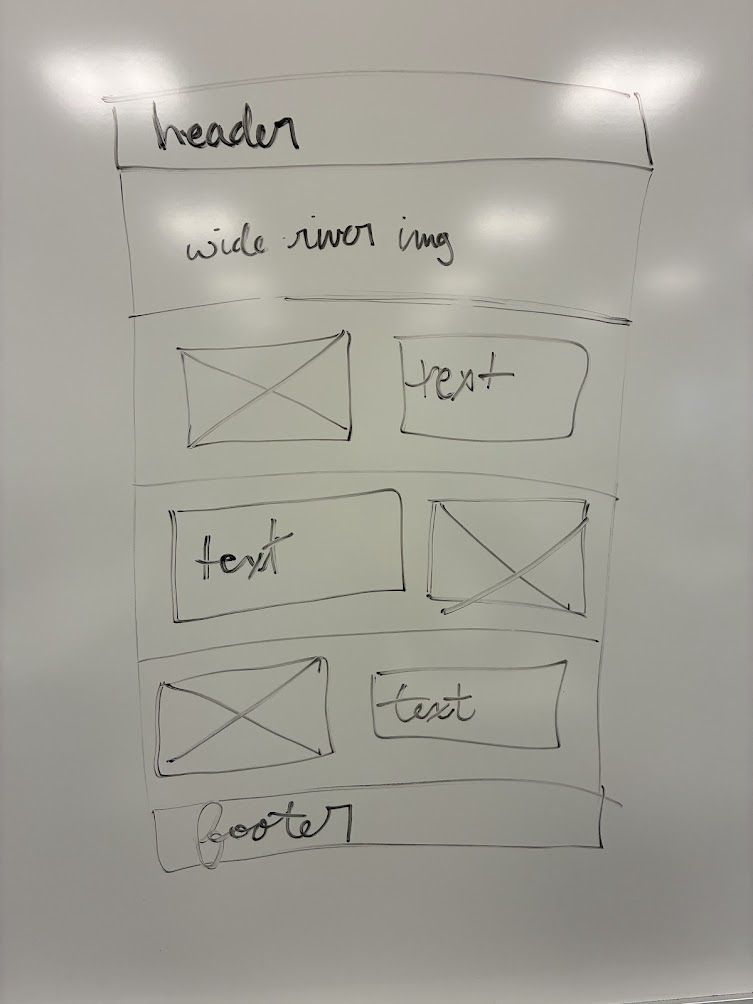
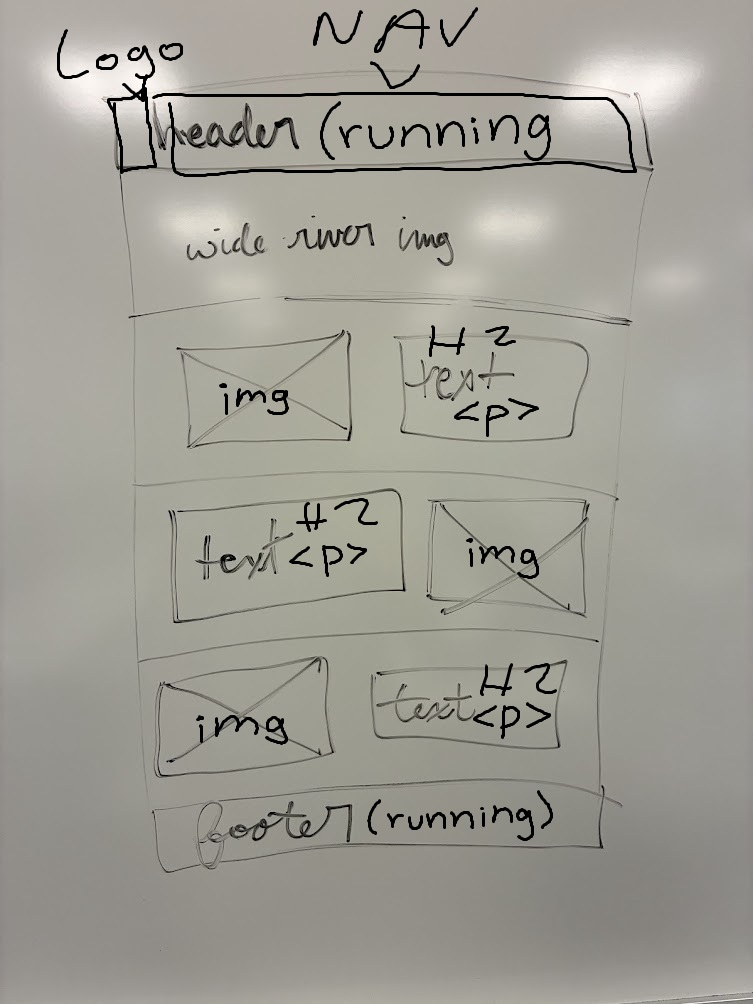
river-plan

diff --git a/wwr/rivers.html b/wwr/rivers.html
@@ -1,0 +1,42 @@
+<!DOCTYPE html>
+<html lang="en">
+<head>
+    <meta charset="UTF-8">
+    <meta name="viewport" content="width=device-width, initial-scale=1.0">
+    <title>Document</title>
+    <link rel="stylesheet" href="style.css">
+</head>
+<body>
+    <main>
+        <h3>Images:</h3>
+        <div class="img_prep">
+        <img src="images/little-colorado-portrait.jpg" alt="Little Colorado">
+        <img src="images/elves-chasm.jpg" alt="Elves Chasm">
+        <img src="images/rafting-canyon.jpg" alt="Canyon">
+        <img src="images/rafting-tall.jpg" alt="Tall">
+        <img src="images/river-wide.jpg" alt="River, Wide">
+        </div>
+        <h3>Text:</h3>
+        <div>
+            <h4>Main Fork of the Salmon River, Idaho</h4>
+            <p>Nestled deep in the Frank Church Wilderness of No Return winds the Salmon river. The Salmon was given the nickname long ago as the River of No Return by the people living near it because of the number of folks that came to visit and fell so in love with the rugged beauty of the river that they never left.
+
+Herds of elk and deer graze on the hillsides around the river and bear and bighorn sheep are also commonly sighted. The river corridor is also lined with awe inspiring ponderosa pine which tower over the sandy beaches in the campsites and provide shelter from sun or rain when needed.
+
+Let's not forget the rapids! They range from class I-IV. The Salmon is one of the longest undammed rivers in the United States. As a free flowing river the water is higher, faster, and colder in the early summer and lower, slower, and warmer in the late summer. There are good rapids all summer...but families with children who like to swim tend to appreciate the late summer's slower, warmer water more.</p>
+            <h4>Desolation and Gray Canyon, Utah</h4>    
+            <p>Winding through canyons in central Utah, in some of the most desolate land anywhere, the Green river flows towards the mighty Colorado river and the sea. High grey stone cliffs, beautiful desert scenery, and great rapids have made this run famous. This 84-mile trip runs from from Sand Wash to Swaseys Rapid (just outside Green River Utah) and boasts outstanding scenery, interesting geologic formations, evidence of prehistoric and historic human activity, and great whitewater opportunities.
+
+Desolation is rated a Class II/III and is usually done in 6 days
+
+Desolation Canyon has been recognized as a National Landmark.  This designation is based on the uniqueness and rich history that the canyon tells.</p>
+            <h4>Grand Canyon, Arizona</h4>
+            <p>This is the grand daddy of all canyons and the grand daddy of all river trips. You will never forget your visit to the Grand Canyon.
+
+Grand Canyon river rafting combines world-class whitewater with breathtaking scenery to make one truly unforgettable river experience. The canyon is filled not only with exhilarating whitewater rapids, but with side canyons and ancient indian ruins accessible only by river.
+
+CLASS I - X: The Grand Canyon uses a unique river rating scale. The rapids in the Canyon are technically rated I - X ( 1 - 10) to accommodate such a wide variety of rapids and river variances. However, most people are familiar with the regular I - V river rating scale, so we often refer to both.</p>
+        </div>
+    </main>
+</body>
+</html>

diff --git a/wwr/site-plan-rafting.html b/wwr/site-plan-rafting.html
@@ -109,6 +109,7 @@
     <h2>Wireframes</h2>
     <!-- Create an additional wireframe for your site. List it here below the Home page wireframe. -->
     <img src="images/wireframe-rivers.png" alt="Site Plan">
+    <a href="rivers.html">River Page content</a>
     <h3>Home</h3>
 
     <img src="https://byui-wdd.github.io/wdd130/rafting_images/wireframe_home.png" alt="home page wireframe" />
